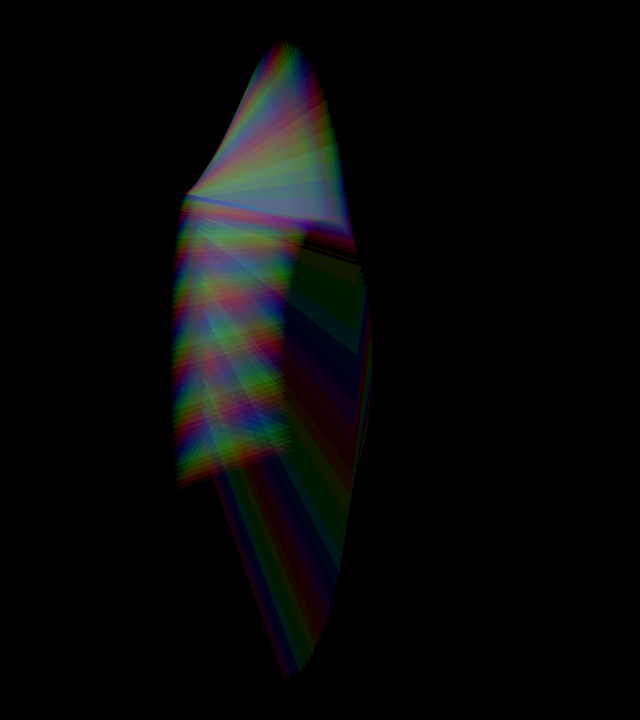
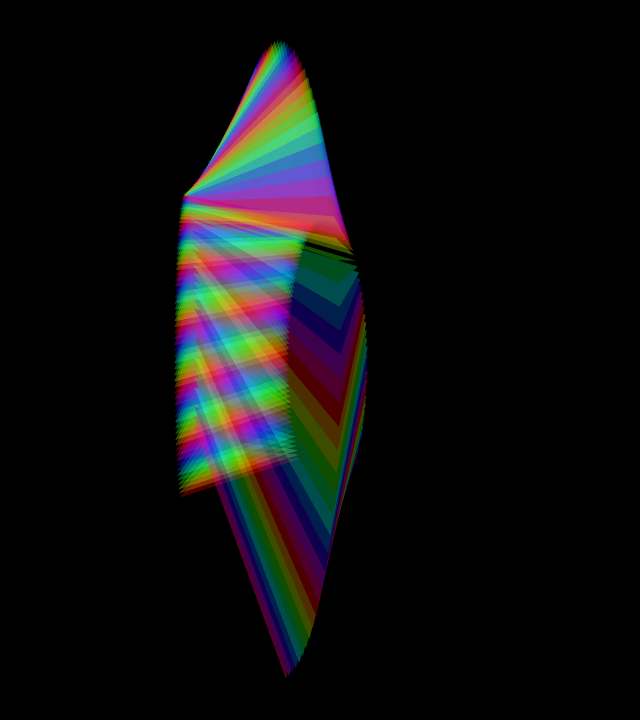
fix(3D): beginShape3D のシェイプに fill が二重に掛かるのをやめる (#825) (#841)
## 目的

`beginShape3D` / `vertex` で組んだシェイプは **fill 色が 2 回掛かっていた** (#825)。

- 記録時に fill 色を頂点カラーへ焼き込む (`Canvas3D+Shapes.swift`)
- 描画時にも `uniforms.color = fillColor` を送る (`Canvas3D+ShapeDrawing.swift`)
- 頂点シェーダーが `out.color = in.color * uniforms.color` を掛ける
(`MetaphorCanvas3D.metal`)

組み込みプリミティブは頂点カラーが白 (`Mesh.swift`) なので 1
回しか掛からず、**同じ寸法・同じライトでも組み方で色が変わっていた**。

## 変更点

描画側の tint を白に固定し、fill を 1 回に揃える。焼き込みを残したのは、`beginShape3D` の途中で `fill()`
を変える Processing 由来の書き方 (頂点ごとの色づけ) を保つため。

同じ根から来ていた 2 件も直る:

- `vertex(x, y, z, color)` の色が「頂点カラー × fill」になり、`fill(255)`
にしないと指定した色が出せなかった → **指定どおり出る**
- `.points` が uniforms へ**先頭頂点の色**を入れており、結果が「頂点[i] ×
頂点[0]」で点ごとの色分けが壊れていた → **各点が自分の色になる**

記録経路 (影オン / `METAPHOR_COMMAND_RECORD`) は `drawMesh` が現在の `fillColor` を
`DrawCall3D` へ載せるため、焼き込み済みの頂点を渡すあいだだけ fill を白へ退避する
(`drawBakedShapeMesh`)。テクスチャ経路は UV 頂点にカラーが無く元から 1 回なので**変更していない**。

## 確認方法

`Tests/metaphorTests/Canvas3DShapeFillTests.swift`
を追加し、**即時経路と影オン記録経路の両方**で次を固定した (実装前に赤くなることを確認済み)。

| 検査 | 修正前 | 修正後 |
|---|---|---|
| `fill(0.5)` の板の中心 | 64 | **128** |
| `beginShape3D` と `plane()` の色 | (64, 41, 10) / (128, 102, 51) | 一致 |
| 頂点カラー (fill 白 / fill 灰) | (229, 64, 51) / (115, 32, 26) | 一致 |
| `.points` の 2 点 | 赤 464px / 緑 **0px** | 両方描かれる |

```bash
make ci-check
```

→ 1698 tests / 309 suites すべて green (既存の `Canvas3DShapeUVTests` /
`Canvas3D Shape Stroke` / `CommandStreamTests` を含む)。

## 実行結果画像

`beginShape3D` を使う example のうち **10 本の絵が変わった**ので撮り直した (`make
[…]

Changed region(s): [[0.25, 0.0611, 0.5938, 0.9472]]

diff --git a/Tests/metaphorTests/Canvas3DShapeFillTests.swift b/Tests/metaphorTests/Canvas3DShapeFillTests.swift
@@ -1,0 +1,152 @@
+import MetaphorTestSupport
+import Testing
+
+@testable import MetaphorCore
+
+// MARK: - beginShape3D の fill 適用回数（#825）
+
+/// `beginShape3D` は頂点記録の時点で fill 色を頂点カラーへ焼き込む
+/// （`Canvas3D+Shapes.swift`）。頂点シェーダーは `in.color * uniforms.color` を掛けるので、
+/// uniforms 側にも fill を送ると `fill²` になる。組み込みプリミティブは頂点カラーが白
+/// （`Mesh.swift`）なので 1 回しか掛からず、**同じ板でも組み方で色が変わっていた**（#825）。
+///
+/// ライトを付けない（`lightCount == 0`）と `metaphorSkipsLighting` が頂点カラーを
+/// そのまま返すので、色の掛かり方だけを取り出して測れる。
+@Suite("Canvas3D Shape Fill", .enabled(if: MetalTestHelper.isGPUAvailable))
+@MainActor
+struct Canvas3DShapeFillTests {
+
+    private static let size = 64
+
+    /// 画面中央に一辺 40 の板を `beginShape3D` で組む。
+    ///
+    /// Sketch 層の 3D 座標は 2D と同じく左上原点なので、中央へ移動してから組む。
+    private func quad(_ ctx: SketchContext, color: Color? = nil) {
+        ctx.pushMatrix()
+        ctx.translate(Float(Self.size) / 2, Float(Self.size) / 2, 0)
+        ctx.beginShape3D()
+        if let color {
+            ctx.vertex(-20, -20, 0, color)
+            ctx.vertex(20, -20, 0, color)
+            ctx.vertex(20, 20, 0, color)
+            ctx.vertex(-20, 20, 0, color)
+        } else {
+            ctx.vertex(-20, -20, 0)
+            ctx.vertex(20, -20, 0)
+            ctx.vertex(20, 20, 0)
+            ctx.vertex(-20, 20, 0)
+        }
+        ctx.endShape3D(.close)
+        ctx.popMatrix()
+    }
+
+    private func pixel(_ fb: GoldenImage, _ x: Int, _ y: Int) -> SIMD3<Int> {
+        let i = (y * fb.width + x) * 4
+        return SIMD3(Int(fb.rgba[i]), Int(fb.rgba[i + 1]), Int(fb.rgba[i + 2]))
+    }
+
+    private func center(_ fb: GoldenImage) -> SIMD3<Int> {
+        pixel(fb, fb.width / 2, fb.height / 2)
+    }
+
+    @Test("fill は beginShape3D のシェイプへ 1 回だけ掛かる",
+          arguments: [MainPassMode.immediate, .shadows])
+    func fillAppliesOnce(mode: MainPassMode) throws {
+        let fb = try OffscreenSketchHarness.render(size: Self.size, mode: mode) { ctx in
+            ctx.background(Color(r: 0, g: 0, b: 0))
+            ctx.noLights()
+            ctx.noStroke()
+            ctx.fill(Color(r: 0.5, g: 0, b: 0))
+            self.quad(ctx)
+        }
+
+        let c = center(fb)
+        #expect(abs(c.x - 128) <= 8,
+                "fill(0.5) の板は 128 前後になるべき（二重に掛かると 64）: \(c) — #825")
+    }
+
+    @Test("beginShape3D と plane() が同じ fill 色になる")
+    func shapeMatchesPrimitive() throws {
+        let shape = try OffscreenSketchHarness.render(size: Self.size) { ctx in
+            ctx.background(Color(r: 0, g: 0, b: 0))
+            ctx.noLights()
+            ctx.noStroke()
+            ctx.fill(Color(r: 0.5, g: 0.4, b: 0.2))
+            self.quad(ctx)
+        }
+        let primitive = try OffscreenSketchHarness.render(size: Self.size) { ctx in
+            ctx.background(Color(r: 0, g: 0, b: 0))
+            ctx.noLights()
+            ctx.noStroke()
+            ctx.fill(Color(r: 0.5, g: 0.4, b: 0.2))
+            ctx.pushMatrix()
+            ctx.translate(Float(Self.size) / 2, Float(Self.size) / 2, 0)
+            ctx.plane(40, 40)
+            ctx.popMatrix()
+        }
+
+        let a = center(shape)
+        let b = center(primitive)
+        #expect(abs(a.x - b.x) <= 4 && abs(a.y - b.y) <= 4 && abs(a.z - b.z) <= 4,
+                "同じ寸法・同じ fill なら組み方で色が変わらないべき: shape \(a) / plane \(b) — #825")
+    }
+
+    @Test("vertex(x,y,z,color) の色は fill に左右されない")
+    func vertexColorIgnoresFill() throws {
+        func render(fill: Color) throws -> SIMD3<Int> {
+            let fb = try OffscreenSketchHarness.render(size: Self.size) { ctx in
+                ctx.background(Color(r: 0, g: 0, b: 0))
+                ctx.noLights()
+                ctx.noStroke()
+                ctx.fill(fill)
+                self.quad(ctx, color: Color(r: 0.9, g: 0.25, b: 0.2))
+            }
+            return center(fb)
+        }
+
+        let onWhite = try render(fill: Color(r: 1, g: 1, b: 1))
+        let onGray = try render(fill: Color(r: 0.5, g: 0.5, b: 0.5))
+
+        #expect(abs(onWhite.x - 230) <= 8 && abs(onWhite.y - 64) <= 8 && abs(onWhite.z - 51) <= 8,
+                "頂点カラーは指定どおり出るべき: \(onWhite) — #825")
+        #expect(onWhite == onGray,
+                "fill を変えても頂点カラーは変わらないべき: 白 \(onWhite) / 灰 \(onGray) — #825")
+    }
+
+    @Test(".points は点ごとの頂点カラーで描かれる",
+          arguments: [MainPassMode.immediate, .shadows])
+    func pointsKeepOwnColor(mode: MainPassMode) throws {
+        let fb = try OffscreenSketchHarness.render(size: Self.size, mode: mode) { ctx in
+            ctx.background(Color(r: 0, g: 0, b: 0))
+            ctx.noLights()
+            ctx.noStroke()
+            ctx.fill(Color(r: 1, g: 1, b: 1))
+            ctx.translate(Float(Self.size) / 2, Float(Self.size) / 2, 0)
+            // 点は 0.5 単位角の三角形なので、拾えるだけの大きさへ拡大する
+            ctx.scale(30, 30, 30)
+            ctx.beginShape3D(.points)
+            ctx.vertex(-0.6, 0, 0, Color(r: 1, g: 0, b: 0))
+            ctx.vertex(0.6, 0, 0, Color(r: 0, g: 1, b: 0))
+            ctx.endShape3D()
+        }
+
+        var red = 0
+        var green = 0
+        var redSumX = 0
+        var greenSumX = 0
+        for y in 0..<fb.height {
+            for x in 0..<fb.width {
+                let p = pixel(fb, x, y)
+                if p.x > 120 && p.y < 60 && p.z < 60 { red += 1; redSumX += x }
+                if p.y > 120 && p.x < 60 && p.z < 60 { green += 1; greenSumX += x }
+            }
+        }
+
+        #expect(red > 0 && green > 0,
+                "2 点はそれぞれの色で描かれるべき（先頭頂点の色が全点に乗ると片方が消える）: red \(red) / green \(green) — #825")
+        if red > 0 && green > 0 {
+            #expect(redSumX / red < greenSumX / green,
+                    "左が赤・右が緑になるべき: red x \(redSumX / red) / green x \(greenSumX / green)")
+        }
+    }
+}

diff --git a/Sources/MetaphorCore/Drawing/Canvas3D+ShapeDrawing.swift b/Sources/MetaphorCore/Drawing/Canvas3D+ShapeDrawing.swift
@@ -3,6 +3,28 @@ import simd
 
 // テッセレーション済みシェイプ頂点の GPU エンコード（Canvas3D+Shapes.swift から呼ばれる）。
 extension Canvas3D {
+    // MARK: - fill の適用回数（#825）
+
+    // beginShape/endShape の頂点カラーには、記録の時点で「fill 色」または
+    // 「vertex(…color:) で与えた色」が焼き込まれている（Canvas3D+Shapes.swift）。
+    // 頂点シェーダーは `in.color * uniforms.color` を掛けるので、uniforms 側にも
+    // fill を送ると fill が 2 回掛かる（#825）。頂点カラーが白の組み込みメッシュ
+    // （Mesh.swift）と違い、シェイプ側は uniforms を白にして 1 回に揃える。
+    //
+    // 焼き込みをやめて uniforms 一本にしないのは、beginShape の途中で fill() を
+    // 変える書き方（Processing 由来の頂点ごとの色づけ）を保つため。
+    static let bakedShapeTint = SIMD4<Float>(1, 1, 1, 1)
+
+    // 記録経路（影オン / METAPHOR_COMMAND_RECORD）は drawMesh 経由になり、
+    // drawMesh は現在の fillColor を DrawCall3D へ載せる。焼き込み済みの頂点を
+    // 渡すあいだだけ fill を白へ退避して、即時経路と同じ結果にする（#825）。
+    func drawBakedShapeMesh(_ mesh: Mesh) {
+        let savedFill = fillColor
+        fillColor = Canvas3D.bakedShapeTint
+        defer { fillColor = savedFill }
+        drawMesh(mesh)
+    }
+
     // MARK: - シェイプ頂点のバインド
 
     // ユーザー頂点列を index 0 にバインドします。
@@ -68,7 +90,7 @@ extension Canvas3D {
         // シャドウにも落ちなかった（#152）
         if shouldRecordMainPass && !isReplaying {
             if let mesh = try? Mesh(device: device, vertices: vertices, indices: nil) {
-                drawMesh(mesh)
+                drawBakedShapeMesh(mesh)
             }
             return
         }
@@ -95,11 +117,12 @@ extension Canvas3D {
             encoder.setFrontFacing(.counterClockwise)
             encoder.setCullMode(.none)
 
+            // 頂点カラーへ焼き込み済みなので tint は白（#825）
             var uniforms = Canvas3DUniforms(
                 modelMatrix: currentTransform,
                 viewProjectionMatrix: viewProj,
                 normalMatrix: normalMatrix,
-                color: fillColor,
+                color: Canvas3D.bakedShapeTint,
                 cameraPosition: SIMD4(cameraEye.x, cameraEye.y, cameraEye.z, 0),
                 time: currentTime,
                 lightCount: UInt32(lightArray.count),
@@ -312,7 +335,7 @@ extension Canvas3D {
         // 記録経路: 一時 Mesh 化して DrawCall3D として記録（#152）
         if shouldRecordMainPass && !isReplaying {
             if let mesh = try? Mesh(device: device, vertices: allVerts, indices: nil) {
-                drawMesh(mesh)
+                drawBakedShapeMesh(mesh)
             }
             return
         }
@@ -335,11 +358,13 @@ extension Canvas3D {
         }
         encoder.setCullMode(.none)
 
+        // 点ごとの色は頂点カラーが運ぶ。ここに先頭頂点の色を入れると
+        // 「頂点[i] の色 × 頂点[0] の色」になり、点ごとの色分けが壊れる（#825）
         var uniforms = Canvas3DUniforms(
             modelMatrix: currentTransform,
             viewProjectionMatrix: viewProj,
             normalMatrix: normalMatrix,
-            color: shapeVertices3D[0].color,
+            color: Canvas3D.bakedShapeTint,
             cameraPosition: SIMD4(cameraEye.x, cameraEye.y, cameraEye.z, 0),
             time: currentTime,
             lightCount: 0,

diff --git a/Sources/MetaphorCore/Sketch/SketchContext+3D.swift b/Sources/MetaphorCore/Sketch/SketchContext+3D.swift
@@ -6,6 +6,10 @@ extension SketchContext {
     // MARK: - 3D Custom Shapes (beginShape / endShape)
 
     /// 3D 頂点ベースのカスタムシェイプの記録を開始します。
+    ///
+    /// 現在の `fill` は各頂点に 1 回だけ掛かります。`beginShape3D` と `endShape3D` の
+    /// 間で `fill` を変えると、その時点以降の頂点だけが新しい色になります（頂点ごとの色づけ）。
+    ///
     /// - Parameter mode: シェイプの描画モード（デフォルト `.polygon`）。
     public func beginShape3D(_ mode: ShapeMode = .polygon) {
         activeShapeRecording = .threeD
@@ -30,6 +34,10 @@ extension SketchContext {
     }
 
     /// 頂点カラー付き 3D 頂点を追加します。
+    ///
+    /// 与えた色は現在の `fill` に左右されず、そのまま出ます。
+    /// `texture()` を貼ったシェイプでは頂点カラーは使われません（テクスチャの色が出ます）。
+    ///
     /// - Parameters:
     ///   - x: x 座標。
     ///   - y: y 座標。

diff --git a/Sources/MetaphorCore/Sketch/Sketch+3D.swift b/Sources/MetaphorCore/Sketch/Sketch+3D.swift
@@ -6,6 +6,9 @@ extension Sketch {
 
     /// 3D カスタムシェイプの頂点記録を開始します。
     ///
+    /// 現在の `fill` は各頂点に 1 回だけ掛かります。`beginShape3D` と `endShape3D` の
+    /// 間で `fill` を変えると、その時点以降の頂点だけが新しい色になります（頂点ごとの色づけ）。
+    ///
     /// - Parameter mode: シェイプモード（例: polygon、triangles、lines）。
     public func beginShape3D(_ mode: ShapeMode = .polygon) {
         context.beginShape3D(mode)
@@ -22,6 +25,9 @@ extension Sketch {
     }
 
     /// 現在のシェイプに頂点カラー付き 3D 頂点を追加します。
+    ///
+    /// 与えた色は現在の `fill` に左右されず、そのまま出ます。
+    /// `texture()` を貼ったシェイプでは頂点カラーは使われません（テクスチャの色が出ます）。
     ///
     /// - Parameters:
     ///   - x: x 座標。

diff --git a/Sources/MetaphorCore/Drawing/Canvas3D+Shapes.swift b/Sources/MetaphorCore/Drawing/Canvas3D+Shapes.swift
@@ -8,6 +8,10 @@ extension Canvas3D {
 
     /// 3D カスタムシェイプの頂点記録を開始します。
     ///
+    /// 頂点は記録時の fill 色を焼き込んで積むため、記録の途中で fill を変えると
+    /// 頂点ごとに色が付きます。描画側は焼き込み済みを前提に tint を白で送ります
+    /// （`Canvas3D.bakedShapeTint`。二重適用の防止, #825）。
+    ///
     /// - Parameter mode: シェイプのテッセレーションモード。
     public func beginShape(_ mode: ShapeMode = .polygon) {
         isRecordingShape3D = true
@@ -30,6 +34,9 @@ extension Canvas3D {
     }
 
     /// 頂点カラー付きの 3D 頂点を追加します。
+    ///
+    /// 与えた色は現在の fill に左右されず、そのまま出ます（#825）。
+    /// `texture(_:)` を貼ったシェイプでは頂点カラーは使われません。
     ///
     /// - Parameters:
     ///   - x: x座標。

diff --git a/changelog.d/825.fixed.md b/changelog.d/825.fixed.md
@@ -1,0 +1,12 @@
+- `beginShape3D` shapes no longer apply `fill` twice. The fill color was baked
+  into the vertex colors *and* sent again as the shader tint, so a shape drawn
+  with `fill(180, 120, 60)` came out as `fill²` — darker than the same shape
+  built from `plane()` or any other built-in primitive. Shapes now match the
+  primitives, and the color no longer depends on whether a texture is bound or
+  shadows are enabled. Two related symptoms are fixed with it: a color passed to
+  `vertex(x, y, z, color)` now shows up exactly as given instead of being
+  multiplied by the current fill, and `beginShape3D(.points)` now draws each
+  point in its own color instead of tinting every point with the first vertex's
+  color. Sketches that compensated by lightening their `fill` (or by setting
+  `fill(255)` before per-vertex colors) will now render brighter and should drop
+  the workaround ([#825](https://github.com/shinyaoguri/metaphor/issues/825))

diff --git a/docs/tutorial/05-3d.md b/docs/tutorial/05-3d.md
@@ -999,7 +999,7 @@ final class Texture: Sketch {
 
 ## 5.9 メッシュとモデル
 
-![頂点から組んだオレンジの四面体と、同じトーラスを 3 回描いた水色のリング](https://i.gyazo.com/fd1f24de1b81015027160eff0451e01c.png)
+![頂点から組んだオレンジの四面体と、同じトーラスを 3 回描いた水色のリング](https://i.gyazo.com/1256178e86ad976538f9a3d611c96de6.png)
 
 組み込みの形で足りないときは、頂点を自分で並べます。2D の `beginShape()` と同じ考え方で、3 引数の `vertex()` を使います。
 
